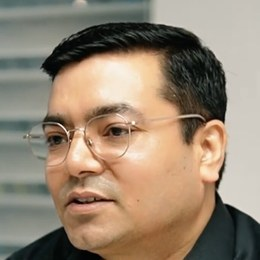
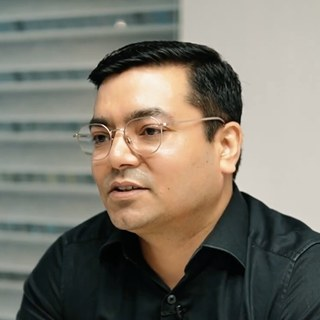
Pulse by PhantasyLabs, a Peepoye Network company, on every page. His photo shows head and shoulders, not a tight face.
Claude-Session: https://claude.ai/code/session_01GucZ3n4LffWP9BzjMULBNq

diff --git a/index.html b/index.html
@@ -80,6 +80,9 @@ a{color:inherit;}
 .gate-box button:hover{background:var(--wine-deep);}
 .gate-err{color:var(--wine);font-size:13px;margin-top:12px;min-height:18px;}
 .gate-foot{margin-top:34px;font-size:12px;color:var(--faint);}
+.gate-foot .made{margin-top:18px;letter-spacing:.02em;}
+.foot a,.gate-foot a{color:var(--wine);text-decoration:none;font-weight:600;}
+.foot a:hover,.gate-foot a:hover{text-decoration:underline;}
 
 /* ===== SHELL ===== */
 #app{display:none;}
@@ -432,7 +435,7 @@ a{color:inherit;}
     <input type="password" id="pass" placeholder="Access key" autocomplete="current-password" onkeydown="if(event.key==='Enter')login()">
     <button onclick="login()">Open</button>
     <div class="gate-err" id="gateErr"></div>
-    <div class="gate-foot">Ask Akash or Ritesh for the key if you do not have one.</div>
+    <div class="gate-foot" id="gateFoot"></div>
   </div>
 </div>
 
@@ -490,7 +493,9 @@ const BRAND = {
   photo:  '/dr-madhu.jpg',                // his face, top left and on the login screen
   site:   'https://drmadhusudan.com',
   whatsappGroup: 'https://chat.whatsapp.com/Cg3tGE9ekGvA1GsXR7vuvx',   // the client group. Empty hides the button.
-  madeBy: 'Peepoye Network',
+  madeBy: 'PhantasyLabs',                 // who makes Pulse
+  madeByUrl: 'https://phantasylabs.com',
+  parent: 'a Peepoye Network company',
   // every page of his, in the globe menu top right. Label, address, one line on what it is.
   sites: [
     ['Website and store',   'https://drmadhusudan.com',            'The main site. Medicines are bought here.'],
@@ -692,7 +697,9 @@ function applyBrand(){
   $('topWho').textContent = BRAND.clinic;
   $('gateSub').textContent = BRAND.clinic + ' · the clinic desk';
   document.title = 'Pulse · ' + BRAND.clinic;
-  $('foot').innerHTML = `<span class="p">Pulse</span> for ${esc(BRAND.clinic)} · made by ${esc(BRAND.madeBy)}`;
+  const made = `<span class="p">Pulse</span> by <a href="${BRAND.madeByUrl}" target="_blank" rel="noopener">${esc(BRAND.madeBy)}</a>, ${esc(BRAND.parent)}`;
+  $('foot').innerHTML = made;
+  $('gateFoot').innerHTML = `Ask Akash or Ritesh for the key if you do not have one.<div class="made">${made}</div>`;
   $('sitesList').innerHTML = (BRAND.sites||[]).map(([l,u,d])=>`<a href="${u}" target="_blank" rel="noopener">${esc(l)}<small>${esc(d)}</small></a>`).join('');
   const wa = BRAND.whatsappGroup;
   ['helpBtn','helpMenu'].forEach(id=>{ const el=$(id); if(!el) return; el.style.display = wa ? '' : 'none'; if(wa) el.href = wa; });
